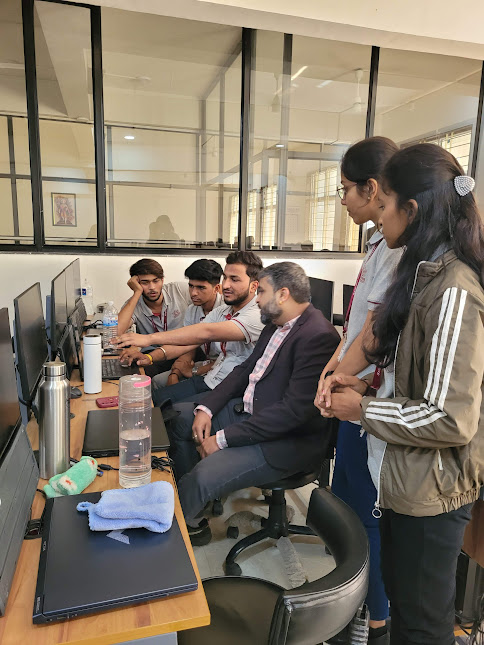
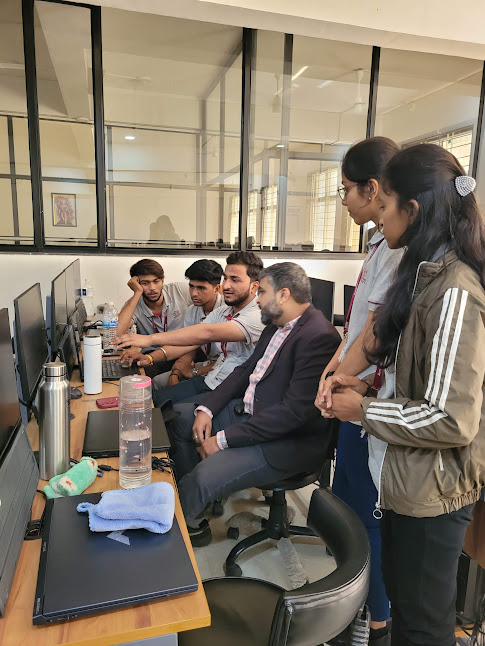
Add IKS Chaturyugas presentation photo to gallery

diff --git a/index.html b/index.html
@@ -621,15 +621,15 @@
                                     </div>
                                 </div>
 
-                                <!-- Gallery Slide 2: Placeholder for your photos -->
+                                <!-- Gallery Slide 2: IKS Presentation -->
                                 <div class="testimonial-slider__slide swiper-slide">
                                     <div class="gallery-flip-container" onclick="this.classList.toggle('flipped')">
                                         <div class="gallery-flipper">
                                             <!-- Front Side: Image -->
                                             <div class="gallery-front">
                                                 <div class="gallery-image-container">
-                                                    <img src="pictures/my photo.jpg" 
-                                                         alt="Tech Journey" 
+                                                    <img src="pictures/gallary/iks_present.jpg" 
+                                                         alt="IKS Presentation" 
                                                          class="gallery-image"
                                                          oncontextmenu="return false;">
                                                 </div>
@@ -637,9 +637,9 @@
                                             <!-- Back Side: Description -->
                                             <div class="gallery-back">
                                                 <div class="gallery-back-content">
-                                                    <h3>Building the Future</h3>
-                                                    <p class="event-details">B.Tech in AI & Data Science</p>
-                                                    <p class="event-description">Passionate about solving real-world problems with AI</p>
+                                                    <h3>IKS Presentation on Chaturyugas</h3>
+                                                    <p class="event-details">Sanjivani University | 2025</p>
+                                                    <p class="event-description">Presented on the four Yugas: Satyug, Treta, Dwapar, and Kaliyuga - exploring ancient Indian knowledge systems and time cycles</p>
                                                 </div>
                                             </div>
                                         </div>
